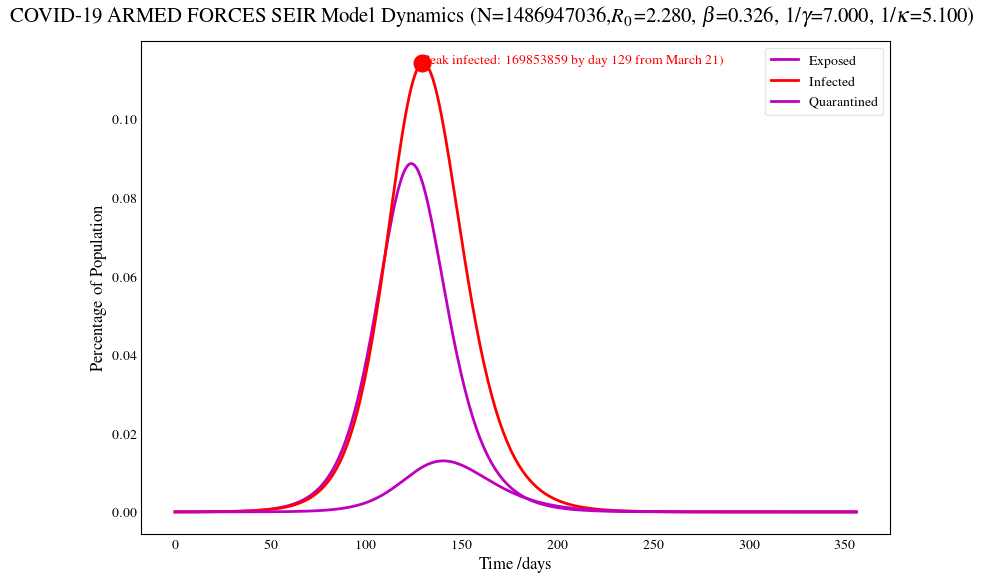
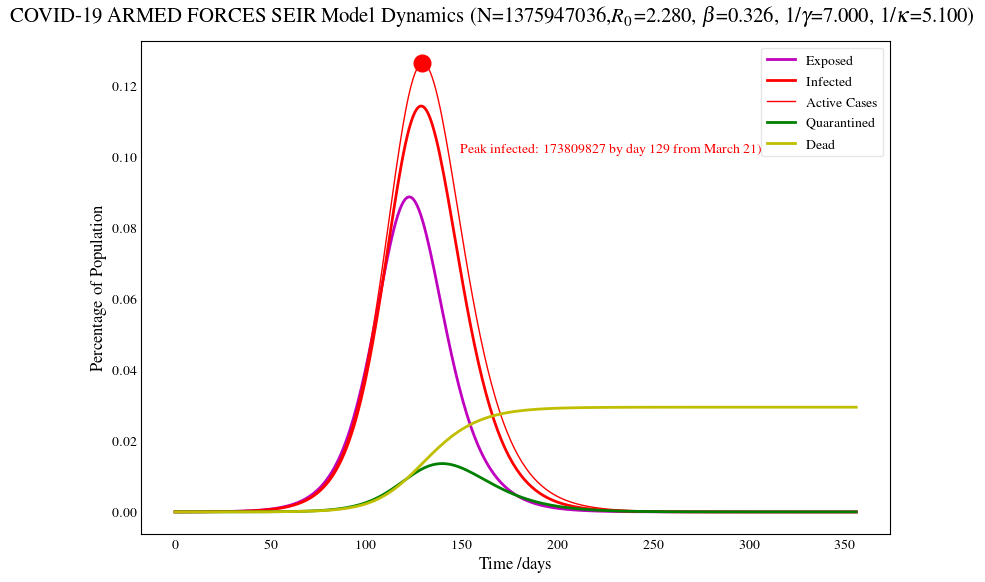
SEIR models

diff --git a/sim_armedSEIR_model.py b/sim_armedSEIR_model.py
@@ -33,7 +33,8 @@ if sim_num == 1:
     R0           = 23
     D0           = 5 
     Q0           = 249 #Q0 is 1% of infectious I0
-    I0           = Q0*100
+    I0           = (1.01/0.01) * Q0
+    # E0           = I0*kappa_inv
     E0           = 0
     
     # Estimated rates from data
@@ -64,7 +65,7 @@ def epi_size(x):
 
 # The SIR model differential equations.
 def deriv(y, t, N, beta, gamma, kappa, q, qt, m):
-    S, E, I, Q, R, D = y
+    S, E, I, Q, R, D, T = y
     
     # Main state variables with exponential rates
     dSdt = -beta/N * S * I 
@@ -72,11 +73,12 @@ def deriv(y, t, N, beta, gamma, kappa, q, qt, m):
     dIdt = kappa * E  - gamma * I
 
     # Decomposed Infected->Removed based on model
-    dQdt = q*I - qt*Q - m*Q
+    dQdt = q*I - qt*Q 
     dRdt = gamma * I + qt*Q
     dDdt = m * I + m*Q
 
-    return dSdt, dEdt, dIdt, dQdt, dRdt, dDdt
+    dTdt = -dSdt
+    return dSdt, dEdt, dIdt, dQdt, dRdt, dDdt, dTdt
 
 
 # Final epidemic size (analytic)
@@ -110,21 +112,30 @@ print("I0=",I0)
 print("Q0=",Q0)
 print("R0=",R0)
 print("D0=",D0)
+T0 = I0 + R0 + D0
 
 # A grid of time points (in days)
 t = np.linspace(0, days, days)
 
 # Initial conditions vector
-y0 = S0, E0, I0, Q0, R0, D0
+y0 = S0, E0, I0, Q0, R0, D0, T0
 
 # Integrate the SIR equations over the time grid, with beta
 ode_sol = odeint(deriv, y0, t, args=(N, beta, gamma, kappa, q, qt, m))
-S, E, I, Q, R, D = ode_sol.T
+S, E, I, Q, R, D, T = ode_sol.T
+TA = T - R + Q 
+TA = I + Q 
+
+
+# 25 May -- 3 Million Cases
+# 30 May -- 6 Million Cases
+print('Total Cases:', T[65],T[70])
+print('Deaths:', D[65],D[70])
 
 print('*****   Results    *****')
-max_inf_idx = np.argmax(I)
-max_inf     = I[max_inf_idx]
-print('Peak Infected = ', max_inf,'by day=',max_inf_idx)
+max_inf_idx = np.argmax(TA)
+max_inf     = TA[max_inf_idx]
+print('Peak Active = ', max_inf,'by day=',max_inf_idx)
 
 #####################################################################
 ######## Plots Simulation with point estimates of parameters ########
@@ -136,17 +147,21 @@ txt_title = r"COVID-19 ARMED FORCES SEIR Model Dynamics (N={N:10.0f},$R_0$={R0:1
 fig.suptitle(txt_title.format(N=N, R0=r0, beta= beta, gamma_inv = gamma_inv, kappa_inv = kappa_inv),fontsize=15)
 
 # Variable evolution
+scale = 1
 # ax1.plot(t, S/N, 'k', lw=2, label='Susceptible')
-ax1.plot(t, E/N, 'm',  lw=2, label='Exposed')
-ax1.plot(t, I/N, 'r', lw=2,   label='Infected')
-ax1.plot(t, Q/N, 'm',  lw=2, label='Quarantined')
-# ax1.plot(t, R/N, 'g',  lw=2,  label='Recovered')
-# ax1.plot(t, D/N, 'm',  lw=2, label='Dead')
+ax1.plot(t, E/N * scale, 'm',  lw=2, label='Exposed')
+ax1.plot(t, I/N * scale, 'r', lw=2,  label='Infected')
+ax1.plot(t, TA/N * scale, 'r',  lw=1,  label='Active Cases')
+# ax1.plot(t, T/N, 'b',  lw=2, label='Total Cases')
+
+ax1.plot(t, Q/N * scale, 'g',  lw=2, label='Quarantined')
+# ax1.plot(t, R/N, 'k--',  lw=2,  label='Recovered')
+ax1.plot(t, D/N * scale, 'y-',  lw=2, label='Dead')
 
 
 ax1.plot(max_inf_idx, max_inf/N,'ro', markersize=12)
 txt_title = r"Peak infected: {peak_inf:5.0f} by day {peak_days:2.0f} from March 21)" 
-ax1.text(max_inf_idx, max_inf/N, txt_title.format(peak_inf=max_inf, peak_days= max_inf_idx), fontsize=10, color="r")
+ax1.text(max_inf_idx+20, max_inf/N-0.025, txt_title.format(peak_inf=max_inf, peak_days= max_inf_idx), fontsize=10, color="r")
 
 # ax1.plot(t, covid_SinfS0*np.ones(len(t)), 'm--')
 # txt1 = "{per:2.2f} infected"

diff --git a/sim_armedSEIR_model_MC.py b/sim_armedSEIR_model_MC.py
@@ -126,8 +126,9 @@ ode_sol = odeint(deriv, y0, t, args=(N, beta, gamma, kappa, q, qt, m))
 S, E, I, Q, R, D = ode_sol.T
 
 print('*****   Results    *****')
-max_inf_idx = np.argmax(I)
-max_inf     = I[max_inf_idx]
+T = I + Q + D
+max_inf_idx = np.argmax(T)
+max_inf     = T[max_inf_idx]
 print('Peak Infected = ', max_inf,'by day=',max_inf_idx)
 
 #####################################################################
@@ -142,8 +143,9 @@ fig.suptitle(txt_title.format(N=N, R0=r0, beta= beta, gamma_inv = gamma_inv, kap
 # Variable evolution
 # ax1.plot(t, S/N, 'k', lw=2, label='Susceptible')
 ax1.plot(t, E/N, 'm',  lw=2, label='Exposed')
-ax1.plot(t, I/N, 'r', lw=2,   label='Infected')
-ax1.plot(t, Q/N, 'm',  lw=2, label='Quarantined')
+ax1.plot(t, I/N, 'r', lw=2,  label='Infected')
+ax1.plot(t, Q/N, 'g',  lw=2, label='Quarantined')
+ax1.plot(t, T/N, 'b',  lw=2, label='Total Active Cases')
 # ax1.plot(t, R/N, 'g',  lw=2,  label='Recovered')
 # ax1.plot(t, D/N, 'm',  lw=2, label='Dead')
 
